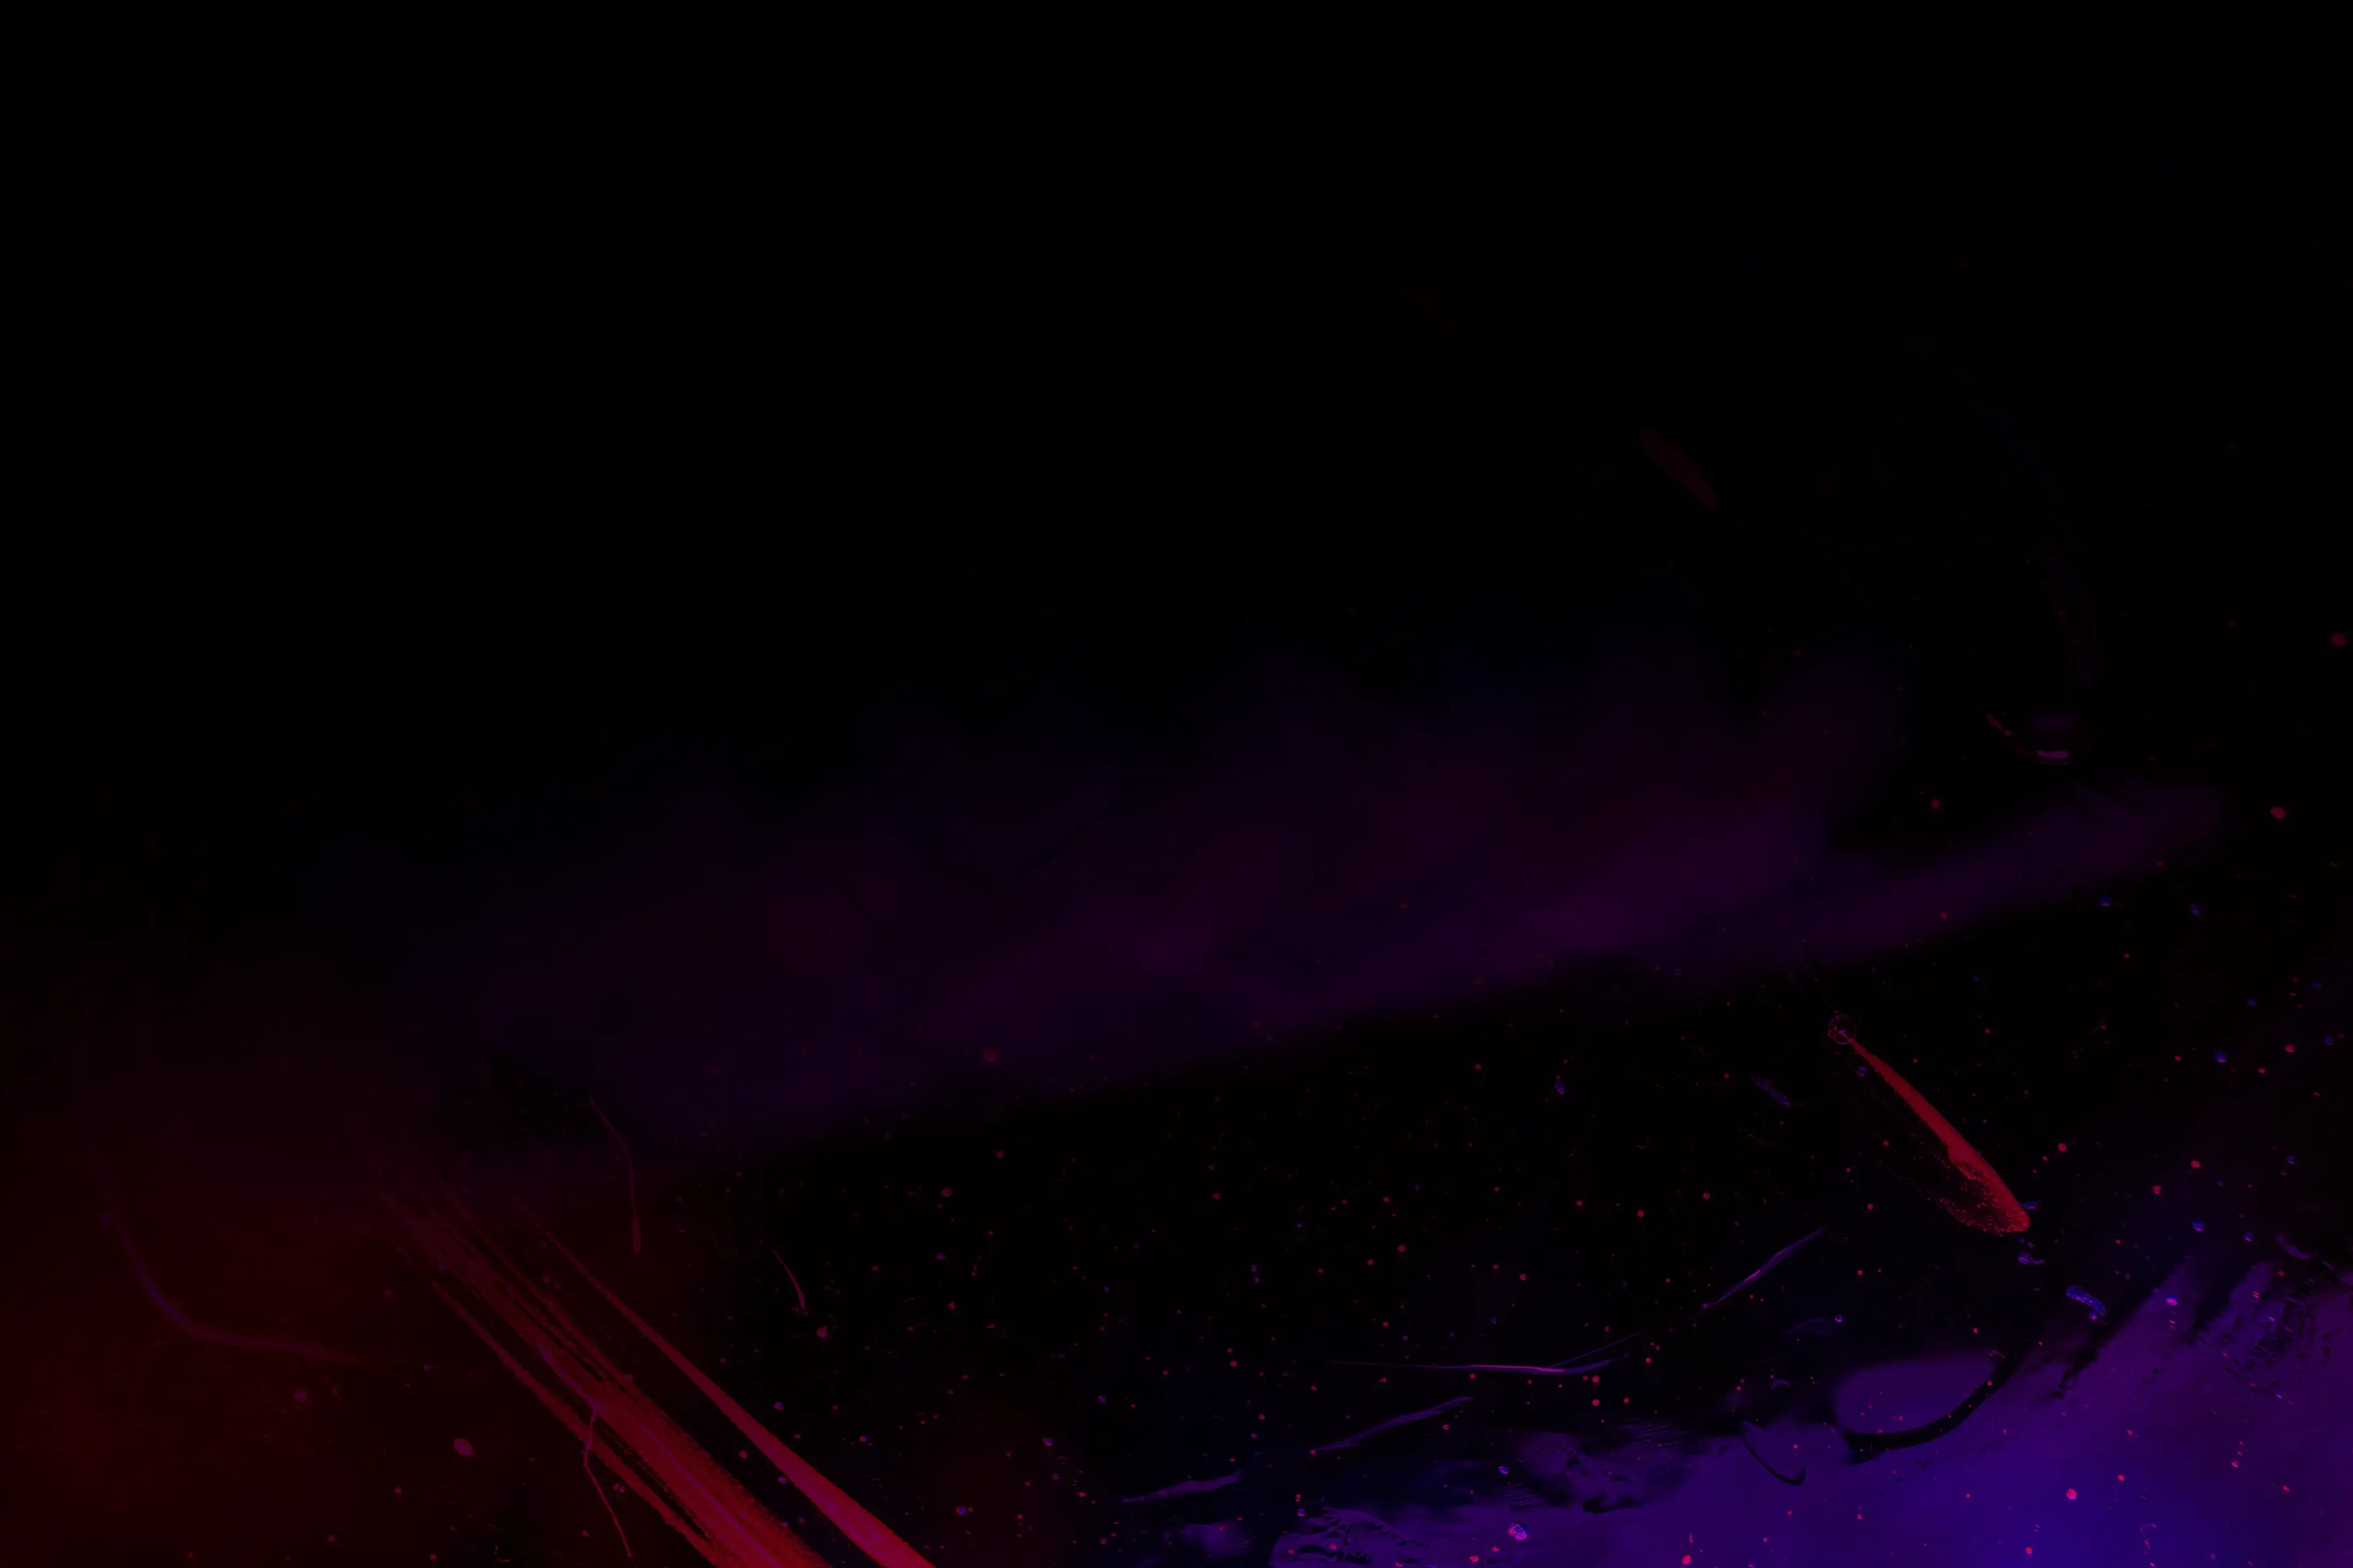
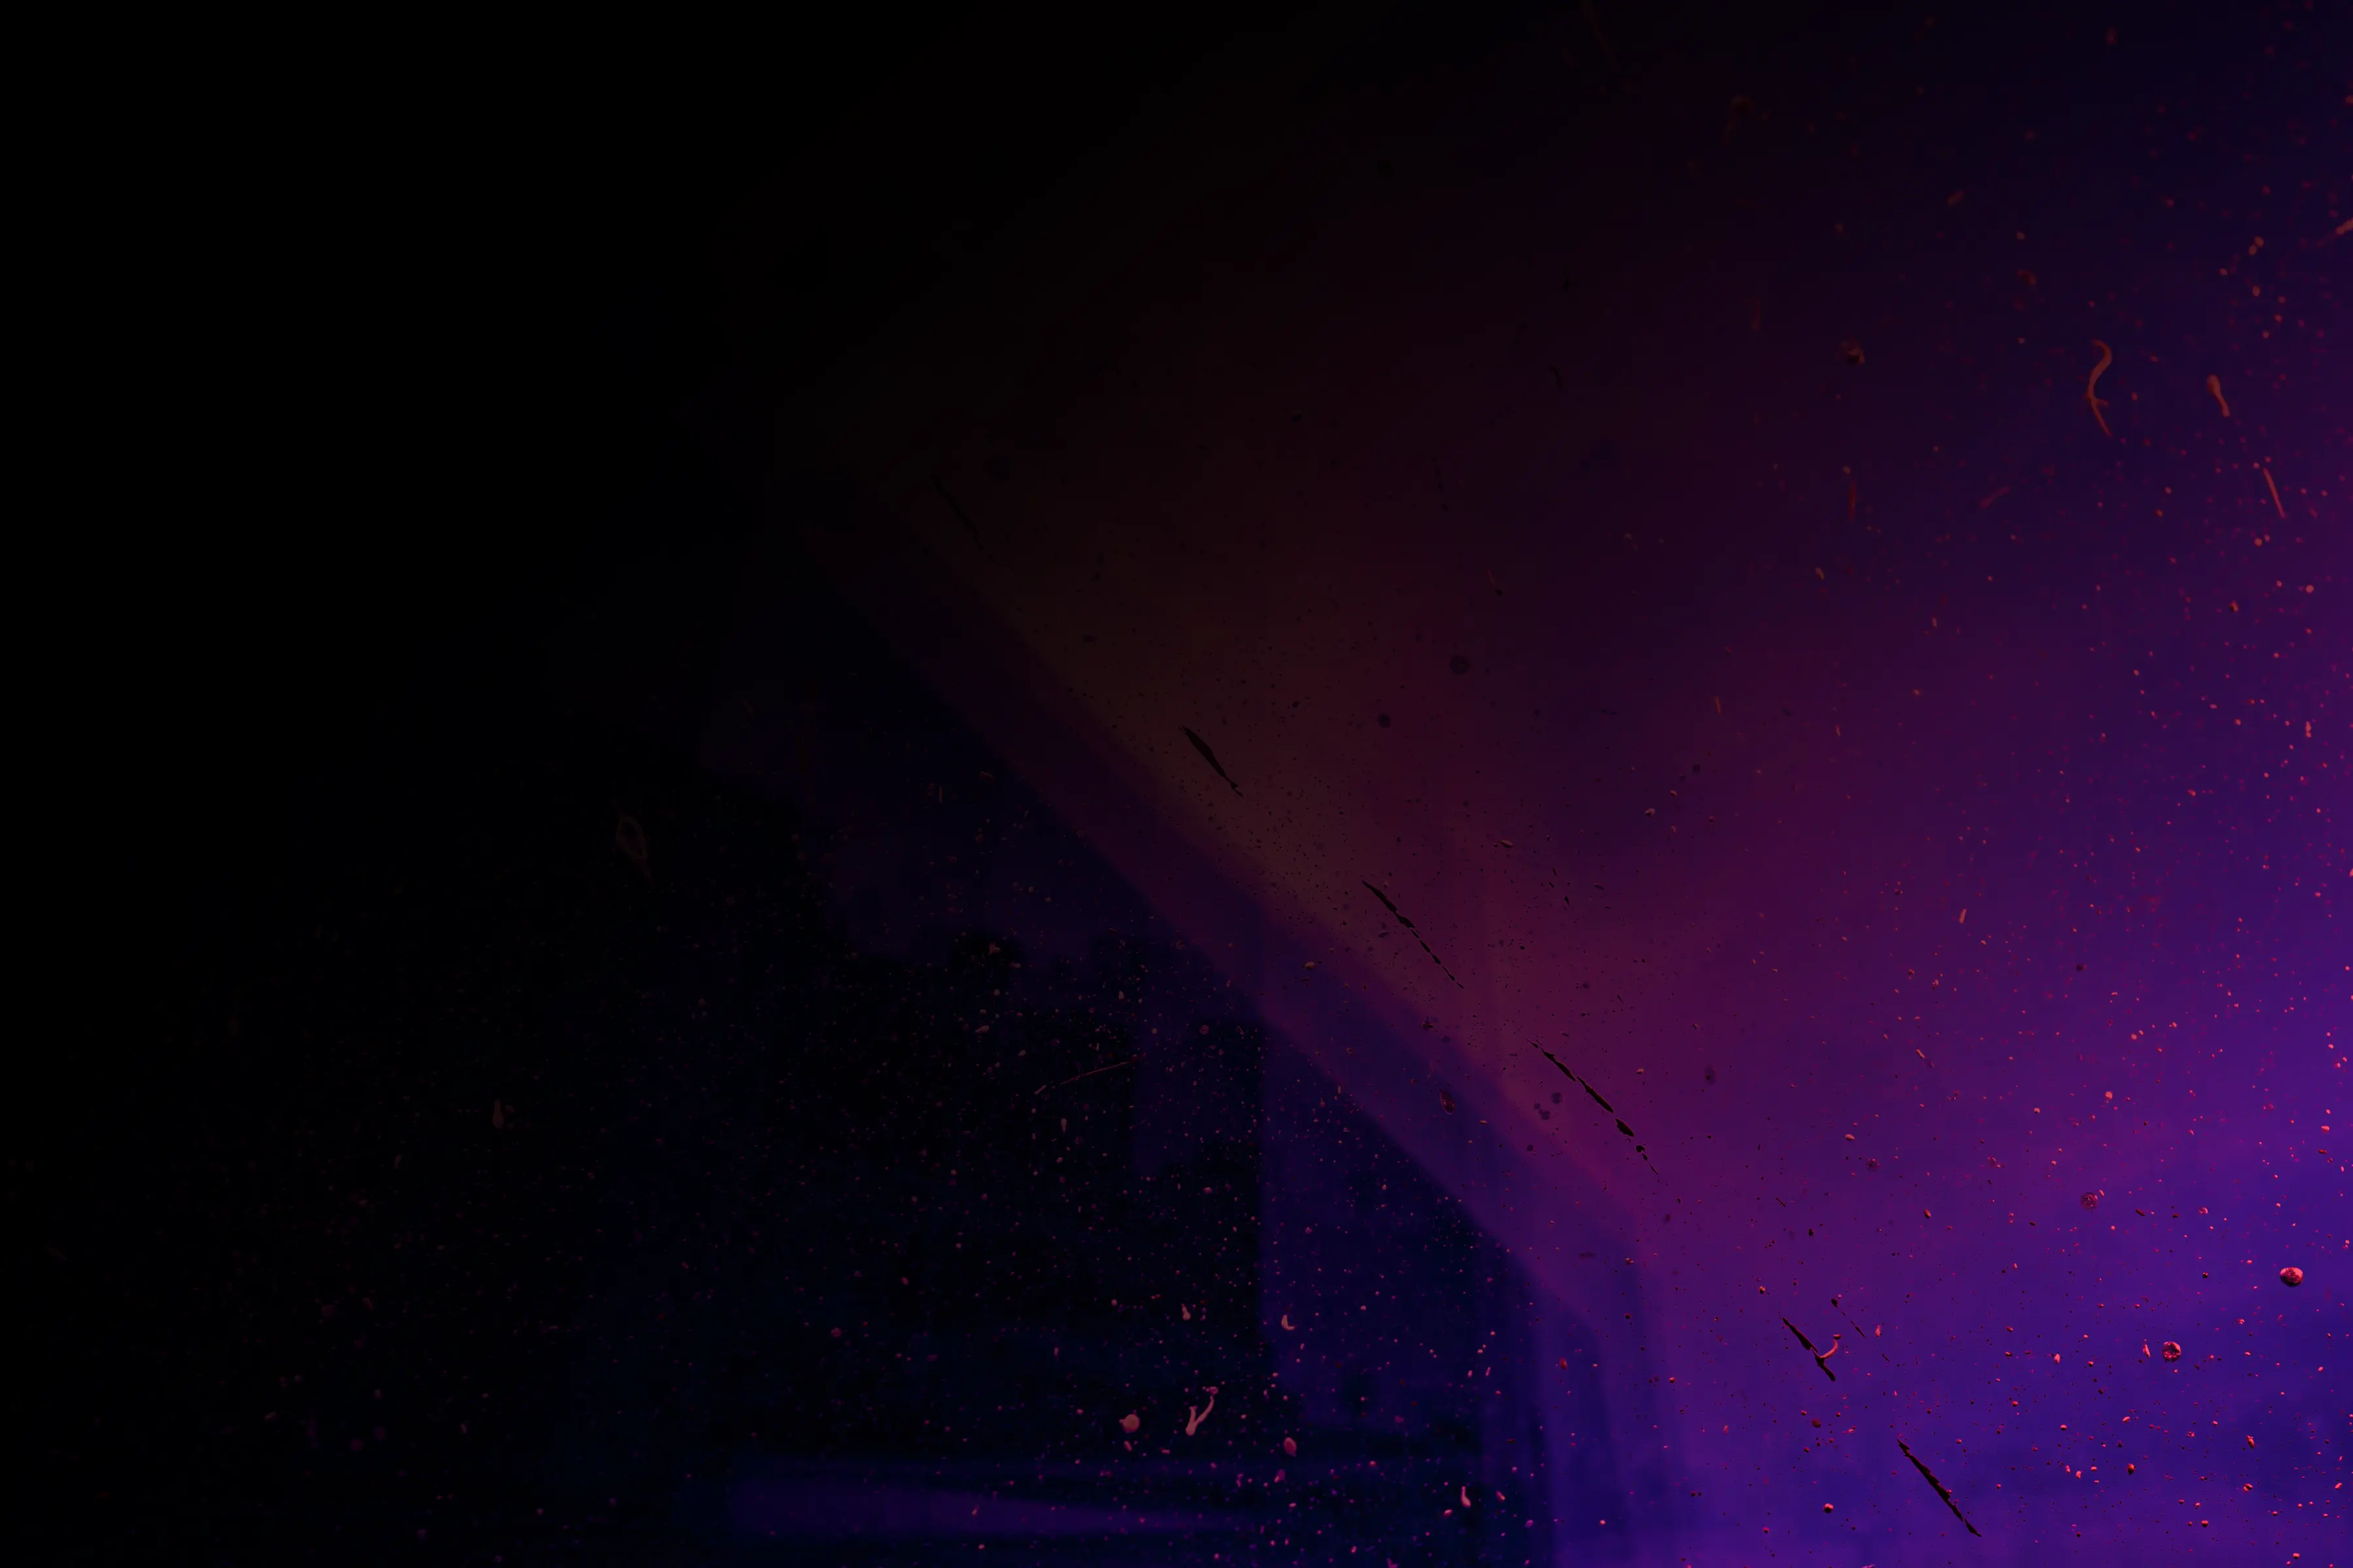
edit some style

diff --git a/src/pages/Projectpage.tsx b/src/pages/Projectpage.tsx
@@ -16,23 +16,23 @@ export default function ProjectsPage() {
     restDelta: 0.001,
   });
   return (
-    <div className="project__wrapper">
+    <div className='project__wrapper'>
       <motion.div
-        className="fixed top-0 left-0 right-0 h-2 bg-fuchsia-200 origin-left z-10"
+        className='fixed top-0 left-0 right-0 h-2 bg-fuchsia-200 origin-left z-10'
         style={{ scaleX }}
       />
       <motion.section
         initial={{ opacity: 0, translateX: -60 }}
         whileInView={{ opacity: 1, translateX: 0 }}
         transition={{ duration: 0.3 }}
-        className="card__wrapper"
+        className='card__wrapper'
       >
-        <h2 className="tertiary__heading lime-green">Projekty</h2>
-        <p className="text-gray-400 font-medium ">
+        <h2 className='tertiary__heading lime-green font-bold'>Projekty</h2>
+        <p className='text-gray-400 font-medium '>
           Všechny moje projekty na jednom místě
         </p>
-        <div className="w-40 h-2 border-b-4 border-gray-700"></div>
-        <div className="flex justify-center items-center gap-5">
+        <div className='w-40 h-2 border-b-4 border-gray-700'></div>
+        <div className='flex justify-center items-center gap-5'>
           <ProjectStatus />
         </div>
       </motion.section>
@@ -40,7 +40,7 @@ export default function ProjectsPage() {
         initial={{ opacity: 0, translateY: 60 }}
         whileInView={{ opacity: 1, translateY: 0 }}
         transition={{ duration: 0.3 }}
-        className="project__card--wrapper"
+        className='project__card--wrapper'
       >
         <Wade />
         <Underline />
@@ -50,12 +50,14 @@ export default function ProjectsPage() {
         initial={{ opacity: 0, translateX: 60 }}
         whileInView={{ opacity: 1, translateX: 0 }}
         transition={{ duration: 0.3 }}
-        className="card__wrapper"
+        className='card__wrapper'
       >
-        <h2 className="tertiary__heading orange-yellow">Challenges</h2>
+        <h2 className='tertiary__heading orange-yellow font-bold'>
+          Challenges
+        </h2>
 
-        <div className="w-40 h-2 border-b-4 border-gray-700"></div>
-        <div className="flex justify-center items-center gap-5">
+        <div className='w-40 h-2 border-b-4 border-gray-700'></div>
+        <div className='flex justify-center items-center gap-5'>
           <ProjectStatus />
         </div>
       </motion.section>
@@ -63,7 +65,7 @@ export default function ProjectsPage() {
         initial={{ opacity: 0, translateY: 60 }}
         whileInView={{ opacity: 1, translateY: 0 }}
         transition={{ duration: 0.3 }}
-        className="project__card--wrapper"
+        className='project__card--wrapper'
       >
         {/* 
     Challendge cards

diff --git a/src/components/Homepage/Skills.tsx b/src/components/Homepage/Skills.tsx
@@ -1,10 +1,22 @@
 import React from 'react';
 
 import { motion } from 'framer-motion';
+import BtnUp from '../Buttons/BtnUp';
+import BtnDown from '../Buttons/BtnDown';
 
 export default function Skills() {
+  const handleClickUp = () => {
+    document.getElementById('about')?.scrollIntoView({
+      behavior: 'smooth',
+    });
+  };
+  const handleClickDown = () => {
+    document.getElementById('projects')?.scrollIntoView({
+      behavior: 'smooth',
+    });
+  };
   return (
-    <div className='section__wrapper'>
+    <div id='skills' className='section__wrapper'>
       <div className='w-2/3 m-auto grid-2 place-items-center gap-10'>
         <motion.div
           initial={{ opacity: 0, translateX: 60 }}
@@ -78,6 +90,10 @@ export default function Skills() {
           <span className='text-blue-500 text-6xl font-bold'>React</span>{' '}
           <span className='text-purple-300 text-4xl font-semibold'>Redux</span>{' '}
         </motion.div>
+      </div>
+      <div className='flex justify-center items-center gap-5'>
+        <BtnUp click={handleClickUp} />
+        <BtnDown click={handleClickDown} />
       </div>
     </div>
   );

diff --git a/src/components/Homepage/About.tsx b/src/components/Homepage/About.tsx
@@ -1,8 +1,21 @@
 import React from 'react';
 
 import { motion } from 'framer-motion';
+import BtnUp from '../Buttons/BtnUp';
+import BtnDown from '../Buttons/BtnDown';
 
 export default function About() {
+  const handleClickUp = () => {
+    document.getElementById('nav')?.scrollIntoView({
+      behavior: 'smooth',
+    });
+  };
+  const handleClickDown = () => {
+    document.getElementById('skills')?.scrollIntoView({
+      behavior: 'smooth',
+    });
+  };
+
   return (
     <div id='about' className='section__wrapper'>
       <div className='w-2/3 m-auto grid-1 xl:grid-2 place-items-center gap-10 '>
@@ -62,6 +75,10 @@ export default function About() {
         >
           Jo a opravdu hodně mám rád kávu <span>☕</span>
         </motion.h2>
+      </div>
+      <div className='flex justify-center items-center gap-5'>
+        <BtnUp click={handleClickUp} />
+        <BtnDown click={handleClickDown} />
       </div>
     </div>
   );

diff --git a/src/components/Projects/Projects/Sidebars/Nimixx/DesktopSidebar.tsx b/src/components/Projects/Projects/Sidebars/Nimixx/DesktopSidebar.tsx
@@ -7,7 +7,6 @@ import { SiTailwindcss } from 'react-icons/Si';
 import { SiTypescript } from 'react-icons/Si';
 import { FaReact } from 'react-icons/fa';
 import { FaGithub } from 'react-icons/fa';
-import { SiAffinity } from 'react-icons/Si';
 import { SiNotion } from 'react-icons/Si';
 
 export default function DesktopSidebar() {
@@ -39,9 +38,6 @@ export default function DesktopSidebar() {
           </i>
           <i className='text-4xl p-4 text-purple-400 rounded-lg shadow-lg shadow-purple-400/20 hover:shadow-purple-400/40 hover:shadow-xl hover:-translate-y-1 duration-500'>
             <SiVite />
-          </i>
-          <i className='text-4xl p-4 text-yellow-400 rounded-lg shadow-lg shadow-yellow-400/20 hover:shadow-yellow-400/40 hover:shadow-xl hover:-translate-y-1 duration-500'>
-            <SiAffinity />
           </i>
         </div>
         <h2 className='text-yellow-200 text-2xl font-semibold place-self-center'>

diff --git a/src/components/Projects/Projects/Sidebars/Nimixx/MobileSidebar.tsx b/src/components/Projects/Projects/Sidebars/Nimixx/MobileSidebar.tsx
@@ -5,7 +5,6 @@ import { SiTailwindcss } from 'react-icons/Si';
 import { SiTypescript } from 'react-icons/Si';
 import { FaReact } from 'react-icons/fa';
 import { FaGithub } from 'react-icons/fa';
-import { SiAffinity } from 'react-icons/Si';
 import { SiNotion } from 'react-icons/Si';
 
 export default function MobileSidebar() {
@@ -24,9 +23,6 @@ export default function MobileSidebar() {
           </i>
           <i className='text-4xl p-4 text-purple-400 rounded-lg shadow-lg shadow-purple-400/20 hover:shadow-purple-400/40 hover:shadow-xl hover:-translate-y-1 duration-500'>
             <SiVite />
-          </i>
-          <i className='text-4xl p-4 text-yellow-400 rounded-lg shadow-lg shadow-yellow-400/20 hover:shadow-yellow-400/40 hover:shadow-xl hover:-translate-y-1 duration-500'>
-            <SiAffinity />
           </i>
         </div>
         <div className='flex justify-center items-center gap-4'>

diff --git a/src/components/Homepage/Projects.tsx b/src/components/Homepage/Projects.tsx
@@ -3,10 +3,16 @@ import React from 'react';
 import { motion } from 'framer-motion';
 import { FaGithub } from 'react-icons/fa';
 import { Link } from 'react-router-dom';
+import BtnUp from '../Buttons/BtnUp';
 
 export default function Projects() {
+  const handleClickUp = () => {
+    document.getElementById('nav')?.scrollIntoView({
+      behavior: 'smooth',
+    });
+  };
   return (
-    <div className='section__wrapper'>
+    <div id='projects' className='section__wrapper'>
       <div className='w-2/3 m-auto grid-2 place-items-center gap-10'>
         <div className='section__text--wrapper'>
           <motion.h2
@@ -68,6 +74,7 @@ export default function Projects() {
           </p>
         </motion.div>
       </div>
+      <BtnUp click={handleClickUp} />
     </div>
   );
 }

diff --git a/src/components/Navigation/Navigation.tsx b/src/components/Navigation/Navigation.tsx
@@ -12,18 +12,18 @@ export default function Navigation() {
     document.getElementById('mobileNav')?.classList.toggle('hidden');
   };
   return (
-    <nav className="w-full flex items-end flex-col">
-      <div className="nav-wrapper">
+    <nav id='nav' className='w-full flex items-end flex-col'>
+      <div className='nav-wrapper'>
         <Link to={`/`}>
           <Avatar />
         </Link>
-        <div className="flex-center gap-16">
+        <div className='flex-center gap-16'>
           <DesktopNav />
           <SocialNav />
         </div>
         <button
           onClick={HandleToggle}
-          className="text-white text-4xl md:hidden"
+          className='text-white text-4xl md:hidden'
         >
           <RxHamburgerMenu />
         </button>

diff --git a/src/index.css b/src/index.css
@@ -34,7 +34,7 @@ Scrollbar
   Wrappers
   */
   .title__section--wrapper {
-    @apply h-96 flex items-center sm:items-start flex-col m-auto gap-2;
+    @apply h-96 mb-10 flex items-center sm:items-start flex-col m-auto gap-2;
   }
   .title__wrapper {
     @apply flex justify-center items-center gap-4;
@@ -43,7 +43,7 @@ Scrollbar
     @apply w-3/4 h-32 m-auto flex items-center justify-between;
   }
   .section__wrapper {
-    @apply w-full h-screen flex flex-col justify-center items-center;
+    @apply w-full h-screen flex flex-col justify-center items-center pb-20;
   }
   .section__text--wrapper {
     @apply flex flex-col items-start gap-2;

diff --git a/src/components/Footer/Footer.tsx b/src/components/Footer/Footer.tsx
@@ -4,12 +4,12 @@ import Social from './Navigation/Social';
 
 export default function Footer() {
   return (
-    <div className="footer__wrapper">
+    <div className='footer__wrapper'>
       <Social />
-      <div className="w-36 h-2 border-b-2 border-gray-400"></div>
+      <div className='w-36 h-2 border-b-2 border-gray-400'></div>
       <Pages />
 
-      <p className="text-sm text-gray-400 font-medium">
+      <p className='text-sm text-gray-400 font-medium'>
         2023 © Všechna práva vyhrazena Tadeáš Thelen
       </p>
     </div>

diff --git a/src/pages/Homepage.tsx b/src/pages/Homepage.tsx
@@ -15,9 +15,9 @@ export default function Homepage() {
     restDelta: 0.001,
   });
   return (
-    <div className="className='w-full min-h-screen flex-center flex-col overflow-hidden'">
+    <div className="className='w-full min-h-screen flex-center flex-col overflow-hidden relative">
       <motion.div
-        className="fixed top-0 left-0 right-0 h-2 bg-fuchsia-200 origin-left z-10"
+        className='fixed top-0 left-0 right-0 h-2 bg-fuchsia-200 origin-left z-10'
         style={{ scaleX }}
       />
       <Title />

diff --git a/src/components/Buttons/BtnUp.tsx b/src/components/Buttons/BtnUp.tsx
@@ -1,0 +1,18 @@
+import React from 'react';
+
+import { BsFillArrowUpSquareFill } from 'react-icons/Bs';
+
+interface btnProps {
+  click: React.MouseEventHandler<HTMLButtonElement>;
+}
+
+export default function BtnUp(props: btnProps) {
+  return (
+    <button
+      onClick={props.click}
+      className='text-rose-300 text-4xl hidden xl:flex hover:text-rose-400 duration-500 outline outline-offset-4 outline-2 outline-rose-400 rounded-md'
+    >
+      <BsFillArrowUpSquareFill />
+    </button>
+  );
+}

diff --git a/src/App.tsx b/src/App.tsx
@@ -6,13 +6,15 @@ import './index.css';
 
 export default function App() {
   return (
-    <div className="bg-background bg-no-repeat bg-cover bg-center bg-fixed">
+    <div className='w-full min-h-screen bg-gradient-to-r from-black-900 via-black-600 to-black-900'>
       <ScrollRestoration />
       <Navigation />
-      <div id="detail">
+      <div id='detail'>
         <Outlet />
       </div>
       <Footer />
     </div>
   );
 }
+
+//bg-background bg-no-repeat bg-cover bg-center bg-fixed relative
